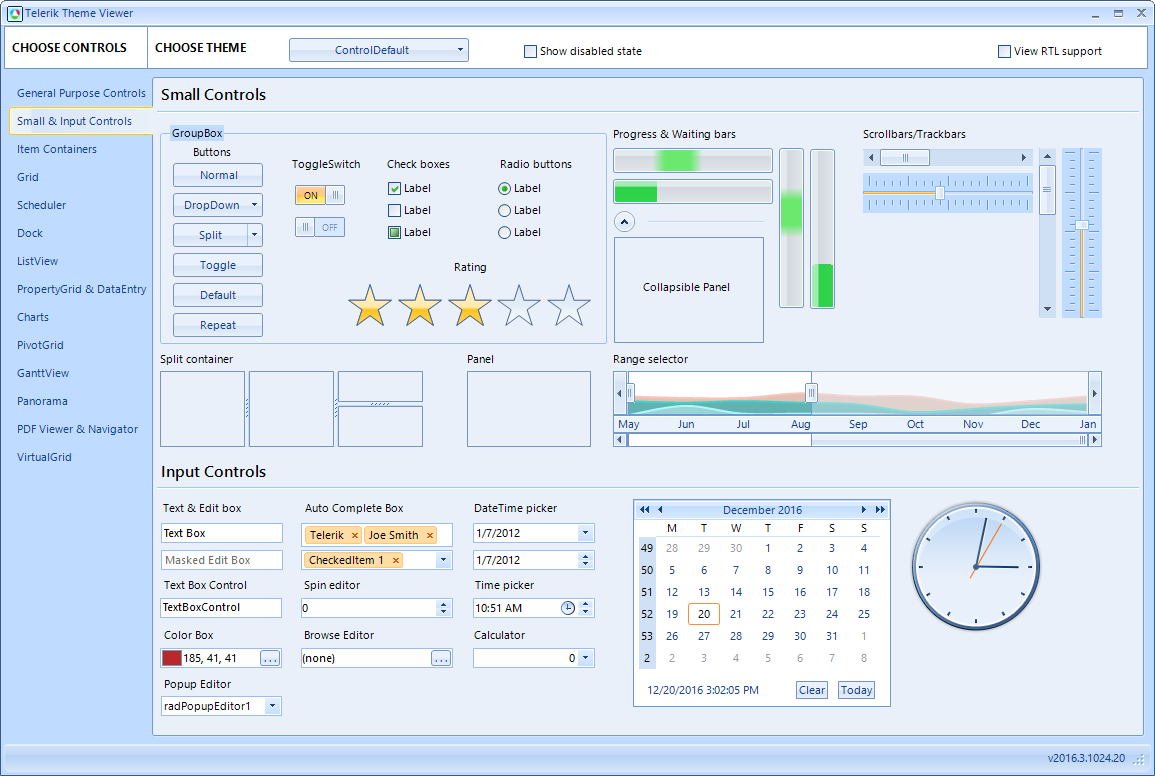
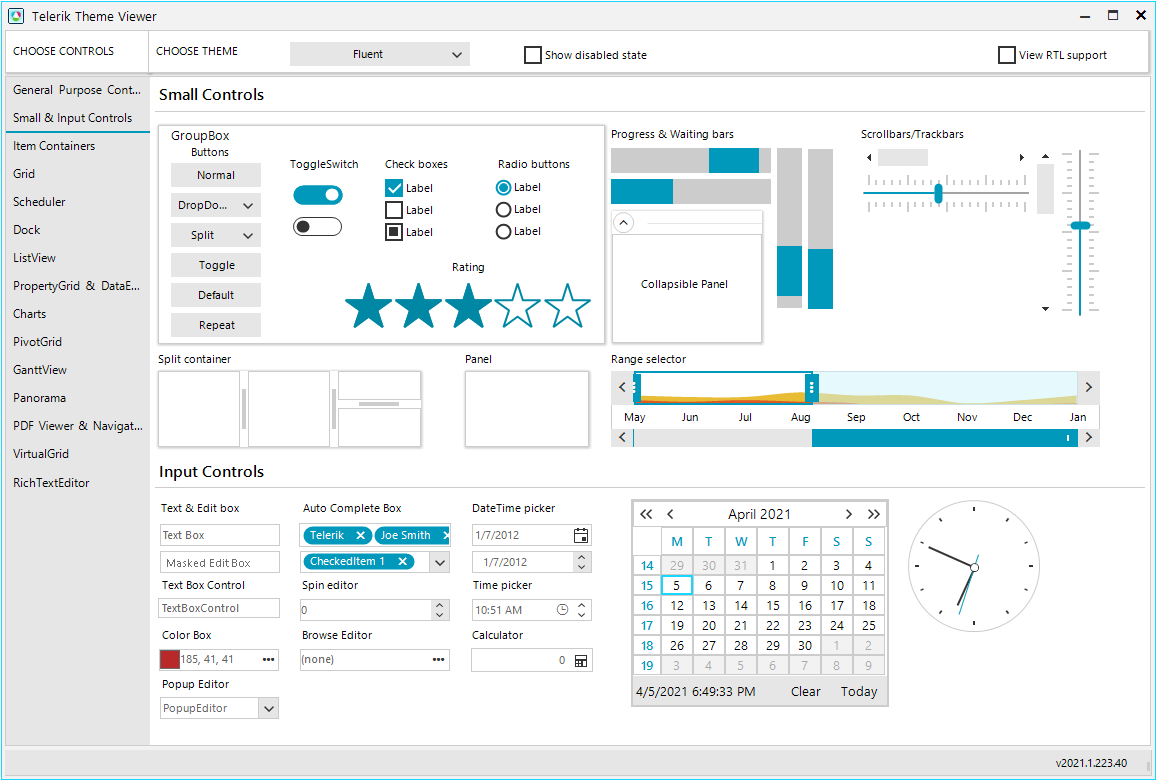
Update ThemeViewer help images

diff --git a/tools/themeviewer.md b/tools/themeviewer.md
@@ -19,7 +19,7 @@ The controls are placed on different pages which can be selected from the left p
 
 ![tools-themeviewer 002](images/tools-themeviewer002.png)
 
-Switching between the different themes and loading custom themes is available from the drop down button on the top of the form:
+Switching between the different themes and loading custom themes is available from the "CHOOSE THEME" drop down button on the top of the form:
 
 ![tools-themeviewer 003](images/tools-themeviewer003.png)
 
